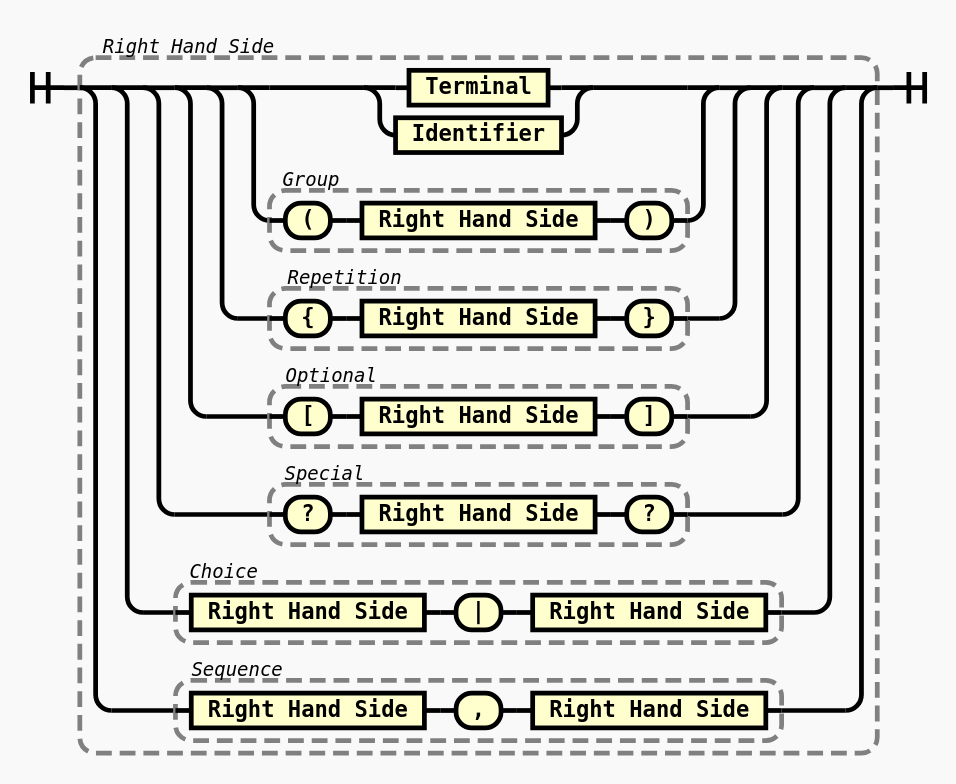
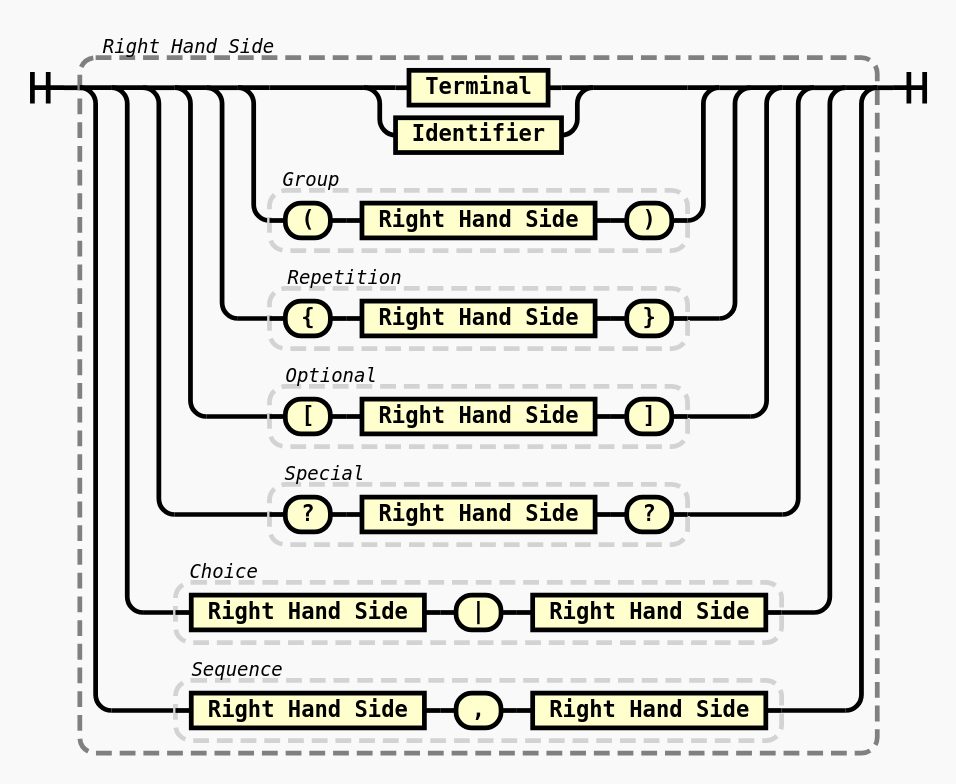
differenciate borrowed group definitions from labelled groups

diff --git a/src/factory.ts b/src/factory.ts
@@ -130,6 +130,11 @@ export class Group extends Diagramable
         return this.#value;
     }
 
+    get label(): string | null
+    {
+        return this.#label;
+    }
+
     toDictionary(): object
     {
         return {
@@ -140,12 +145,12 @@ export class Group extends Diagramable
 
     toDiagram(): Railroad.FakeSVG
     {
-        if (! this.#label)
+        if (! this.label)
             return this.value.toDiagram();
         else
             return new Railroad.Group(
                 this.value.toDiagram(),
-                this.#label
+                this.label
             );
     }
 
@@ -154,6 +159,30 @@ export class Group extends Diagramable
         const value = this.value.replace(replacements);
 
         return new Group((value as Rhs));
+    }
+}
+
+export class BorrowedGroup extends Group
+{
+    constructor(value: Rhs, label: string | null = null)
+    {
+        super(value, label);
+    }
+
+    toDiagram(): Railroad.FakeSVG
+    {
+        if (! this.label)
+            return this.value.toDiagram();
+        else {
+            const group = new Railroad.Group(
+                this.value.toDiagram(),
+                this.label
+            );
+
+            group.attributes.add('class', 'borrowed');
+
+            return group;
+        }
     }
 }
 
@@ -363,7 +392,7 @@ export class Identifier extends Diagramable
         const replacement = replacements.find(r => (r.identifier as Identifier).value === this.value);
 
         if (replacement)
-            return new Group(replacement.value, this.#value);
+            return new BorrowedGroup(replacement.value, this.#value);
         
         return this;
     }

diff --git a/railroad.css b/railroad.css
@@ -42,6 +42,10 @@
     fill: none;
 }
 
+.railroad-diagram .borrowed .group-box {
+    stroke: lightgray;
+}
+
 .railroad-diagram .diagram-text {
     stroke-width: 3;
     stroke: black;
